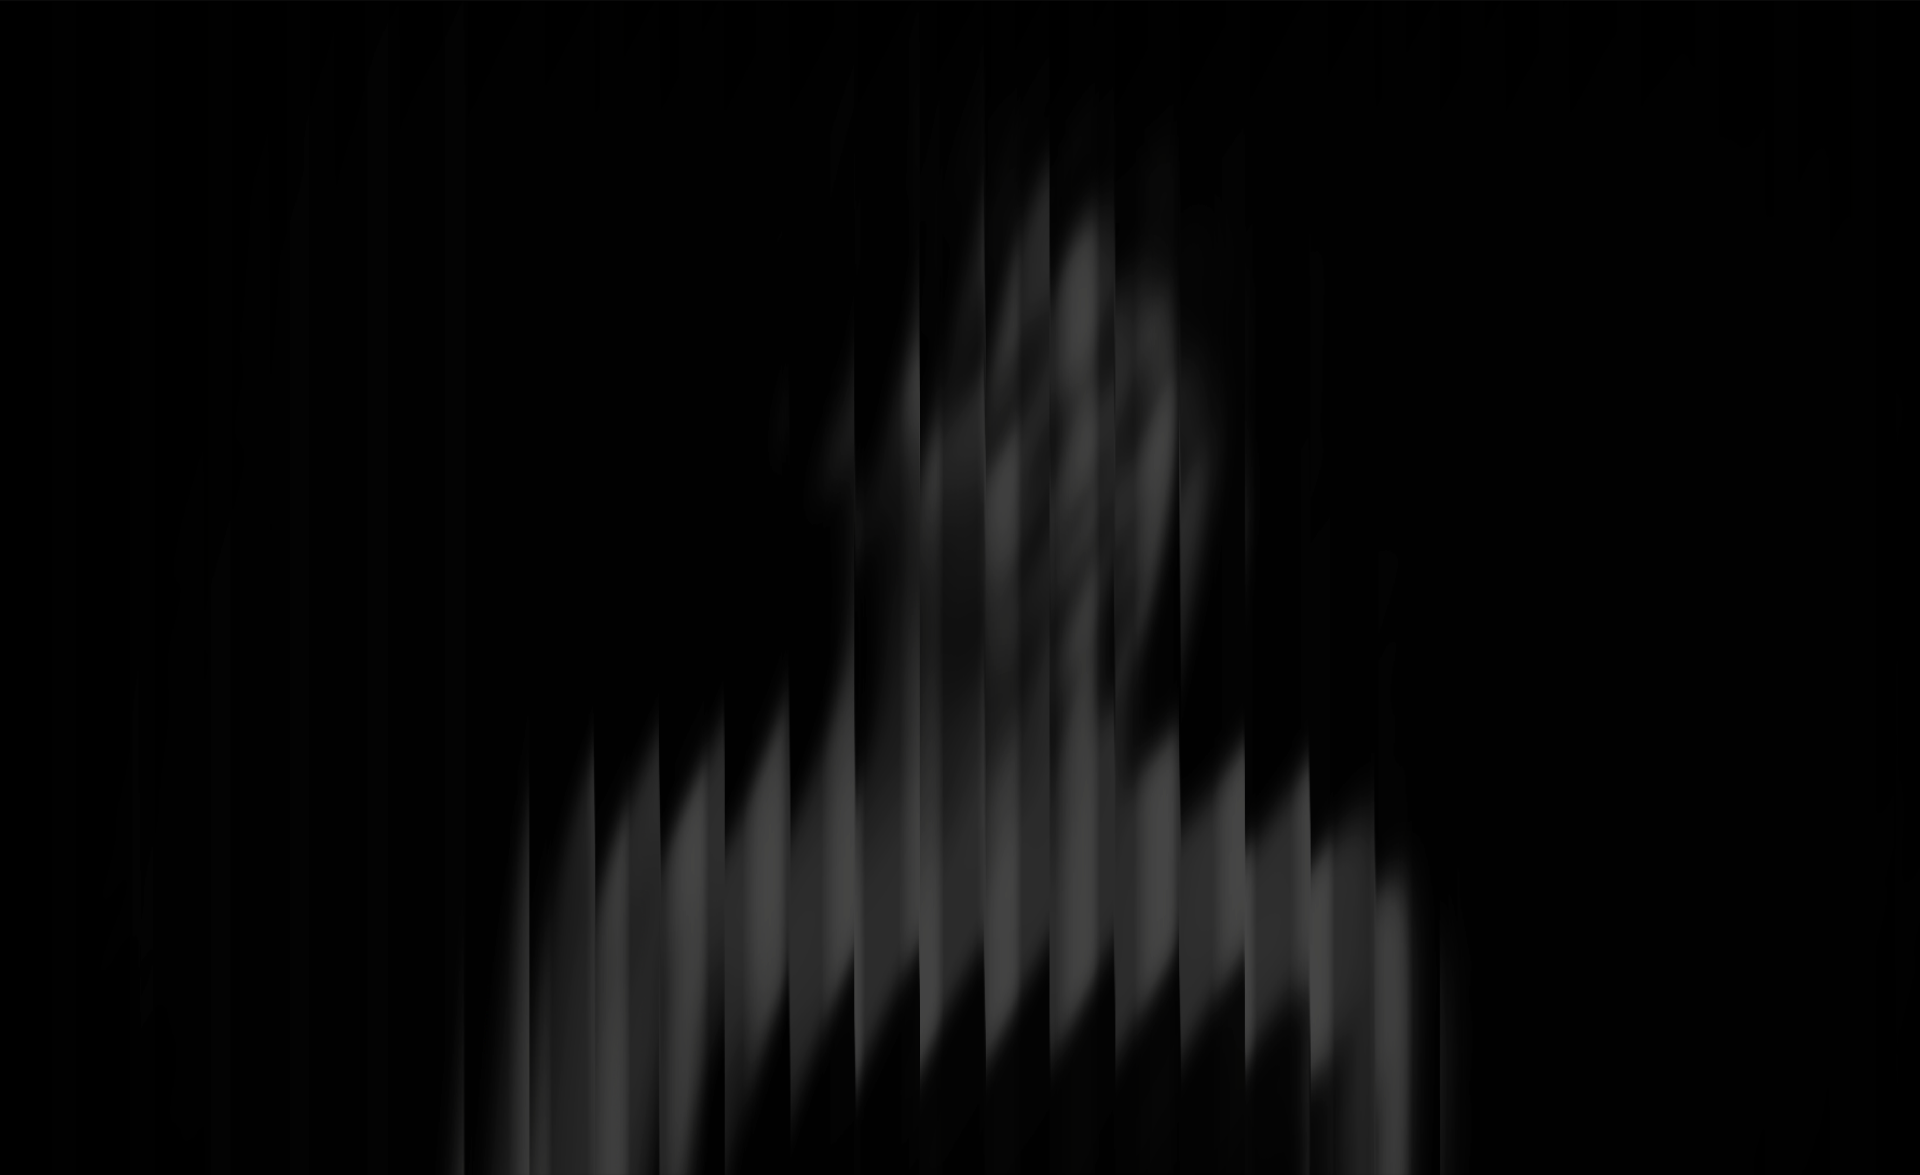
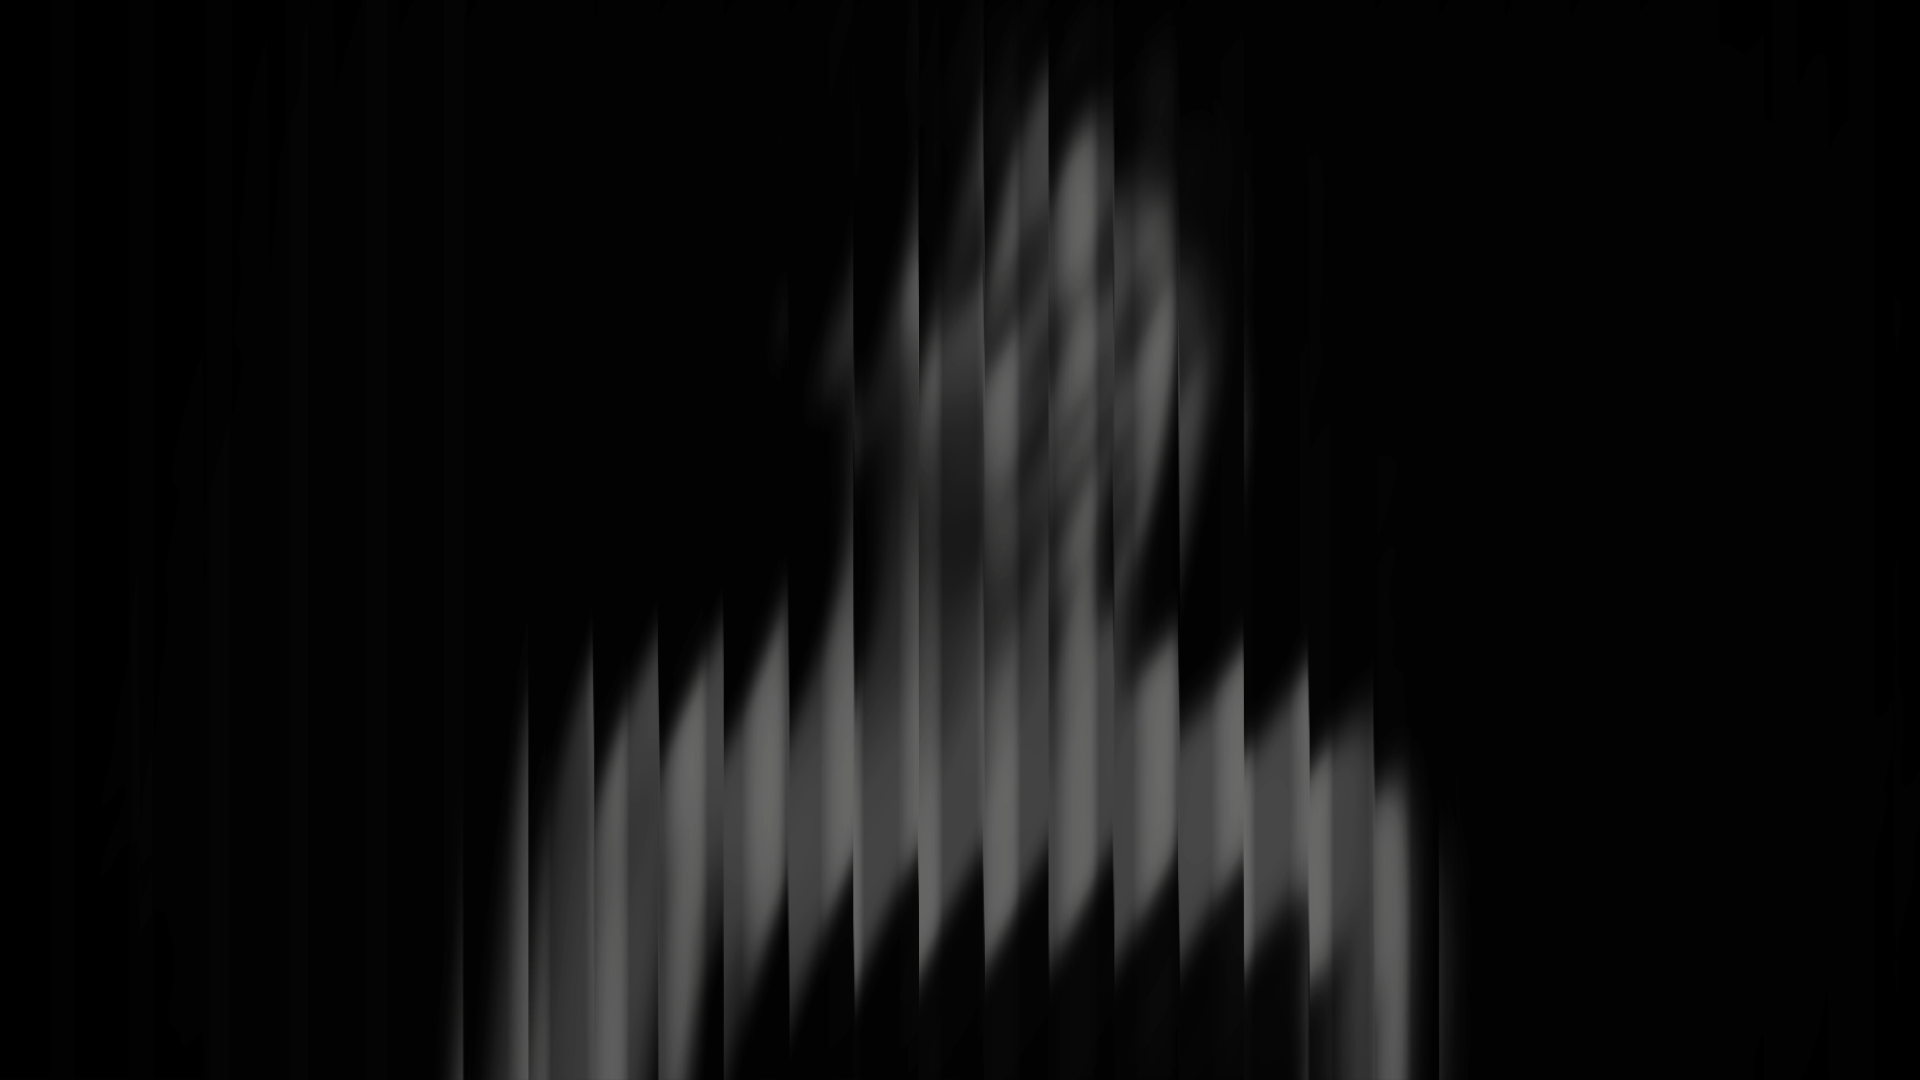
1211_2_13:11

Changed region(s): [[0.25, 0.4583, 0.75, 1.0], [0.4375, 0.0611, 0.625, 0.4278]]

diff --git a/js/main.js b/js/main.js
@@ -2,7 +2,7 @@ gsap.registerPlugin(ScrollTrigger);
 
 window.addEventListener("DOMContentLoaded", () => {
   // ============================================
-  // 모든 줄 요소 수집
+  // 모든 줄 요소 수집 (기존 유지)
   // ============================================
   const topLines = document.querySelectorAll(".top p");
   const bottomLines = document.querySelectorAll(".bottom p");
@@ -10,7 +10,7 @@ window.addEventListener("DOMContentLoaded", () => {
 
   const allElements = [...topLines, ...bottomLines, ...koLines];
 
-  // 텍스트 초기 상태
+  // 텍스트 초기 상태 (기존 유지)
   gsap.set(allElements, {
     opacity: 0,
     y: 40,
@@ -43,54 +43,14 @@ window.addEventListener("DOMContentLoaded", () => {
         filter: "blur(0px)",
         backgroundPosition: "0% 0",
         duration: 2,
-        ease: "power1.out",
+        ease: "power2.out",
       },
       timing
     );
   });
 
   // ============================================
-  // 이미지: 패럴랙스 (천천히 위로)
-  // ============================================
-  const imgEl = document.querySelector("[data-scroll-img]");
-  if (imgEl) {
-    // 나타남 효과
-    gsap.fromTo(
-      imgEl,
-      {
-        opacity: 0,
-        filter: "blur(20px)",
-        y: 120,
-      },
-      {
-        opacity: 1,
-        filter: "blur(0px)",
-        y: 0,
-        duration: 3,
-        ease: "power4.out",
-        scrollTrigger: {
-          trigger: ".identity",
-          start: "top 30%",
-          toggleActions: "play none none none",
-        },
-      }
-    );
-
-    // 패럴랙스 (느리게)
-    gsap.to(imgEl, {
-      y: -200,
-      ease: "power3.out",
-      scrollTrigger: {
-        trigger: ".identity",
-        start: "top bottom",
-        end: "bottom top",
-        scrub: true,
-      },
-    });
-  }
-
-  // ============================================
-  // 텍스트 영역: 패럴랙스 (빠르게 위로)
+  // 텍스트 영역: 패럴랙스 (빠르게 위로) (기존 유지)
   // ============================================
   gsap.to(".identity_right", {
     y: -250,
@@ -102,4 +62,34 @@ window.addEventListener("DOMContentLoaded", () => {
       scrub: true,
     },
   });
+
+  // ============================================
+  // 이미지 영역: 스크롤 패럴랙스 (밑점 95px 위치에서 시작) <-- 수정된 부분
+  // ============================================
+  const imgElement = document.querySelector(".identity_left img");
+
+  // 시작 위치: 이미지가 컨테이너 아래쪽에서 시작하도록 충분히 큰 음수 값 설정
+  // 이 값을 조절하여 이미지 밑점이 95px 위치에 맞도록 조정해야 합니다.
+  const startY = -550; // <--- 이 값을 조절해야 합니다.
+
+  // 종료 위치: 시작점으로부터 +만큼 위로 이동하여 끝냄
+  const endY = startY + 400;
+
+  gsap.fromTo(
+    imgElement,
+    {
+      y: startY, // 시작 Y 위치 (음수 값으로 이미지 상단을 위로 끌어올림)
+      ease: "power3.out",
+    },
+    {
+      y: endY, // 종료 Y 위치 (위로 이동)
+      ease: "power3.out",
+      scrollTrigger: {
+        trigger: ".identity",
+        start: "top bottom",
+        end: "bottom top",
+        scrub: true,
+      },
+    }
+  );
 });

diff --git a/css/style.css b/css/style.css
@@ -17,6 +17,7 @@ section {
 
 main .intro {
   background-color: #0a0a0a;
+  /* height: 100vh; */
 }
 
 main .intro .txt {
@@ -109,8 +110,10 @@ main .identity .identity_wrap {
 main .identity .identity_left {
   position: absolute;
   left: 0;
-  bottom: -100px; /* 아래쪽으로 조정 */
+  bottom: -100px;
   z-index: 1;
+  height: 856px; /* 이미지 프레임의 높이 */
+  overflow: hidden;
 }
 
 main .identity .identity_left img {
